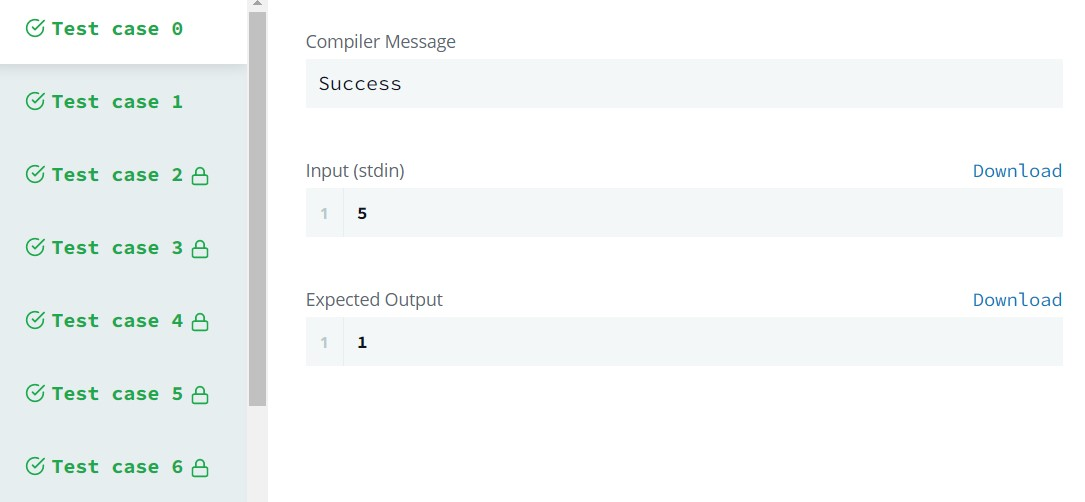
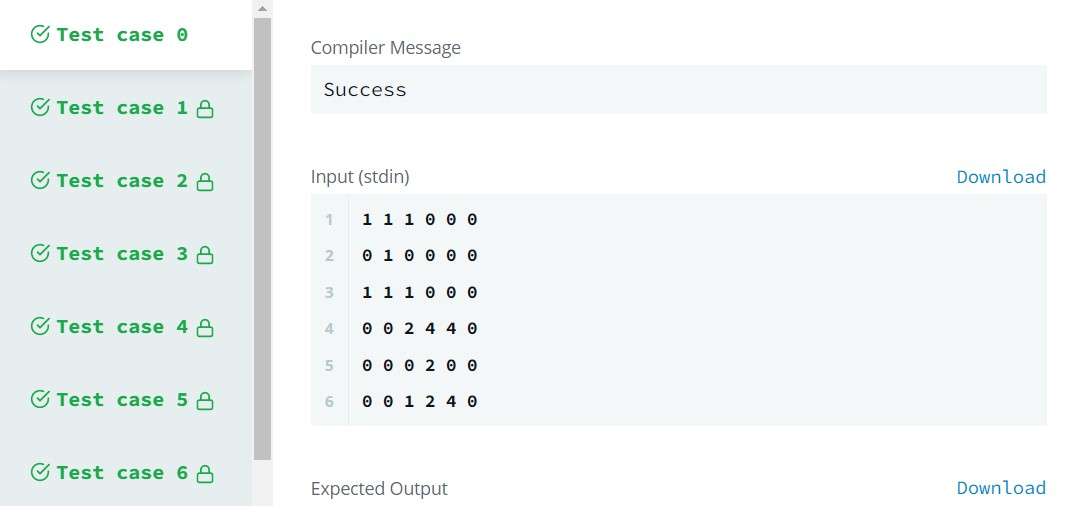
day 11 2D arrys solved

diff --git a/30 days of code/Day 11 2D Arrays/2dArrays.js b/30 days of code/Day 11 2D Arrays/2dArrays.js
@@ -22,12 +22,26 @@ function readLine() {
     return inputString[currentLine++];
 }
 
-
-
 function main() {
-    let arr = Array(6);
-
-    for (let i = 0; i < 6; i++) {
-        arr[i] = readLine().split(' ').map(arrTemp => parseInt(arrTemp, 10));
+    var arr = [];
+    var arr_i = [];
+    for(arr_i = 0; arr_i < 6; arr_i++){
+       arr[arr_i] = readLine().split(' ');
+       arr[arr_i] = arr[arr_i].map(Number);
     }
+    var greatestSum = null;
+  
+  for (var i = 0; i < arr.length - 2; i++) {
+    for (var j = 0; j < arr[i].length - 2; j++) {
+      var top = arr[i][j] + arr[i][j + 1] + arr[i][j + 2],
+          mid = arr[i + 1][j + 1],
+          bot = arr[i + 2][j] + arr[i + 2][j + 1] + arr[i + 2][j + 2],
+          total = top + mid + bot;
+
+      if (greatestSum === null || total > greatestSum) {
+        greatestSum = total;
+      }
+    }
+  }
+  console.log(greatestSum);
 }

diff --git a/Problem Solving/Mini-Max Sum/Readme.md b/Problem Solving/Mini-Max Sum/Readme.md
@@ -1,0 +1,5 @@
+### O código só roda na plataforma HackerRank (https://www.hackerrank.com/)
+
+<img src = "./image/problema.png">
+
+<img src = "./image/resultado.jpg">
